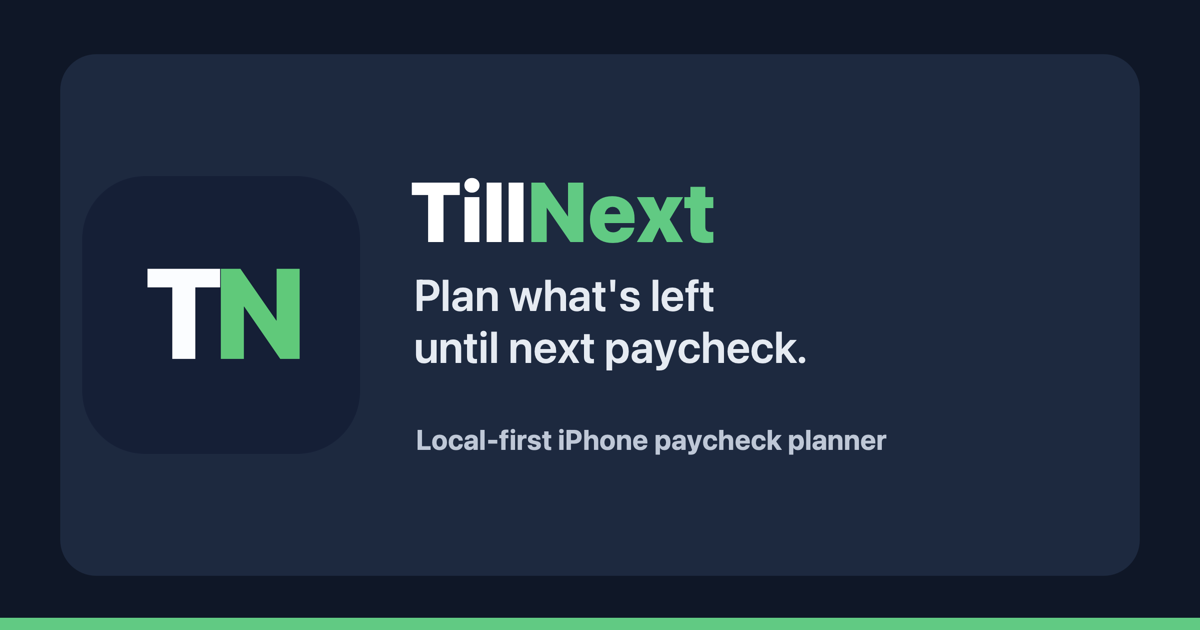
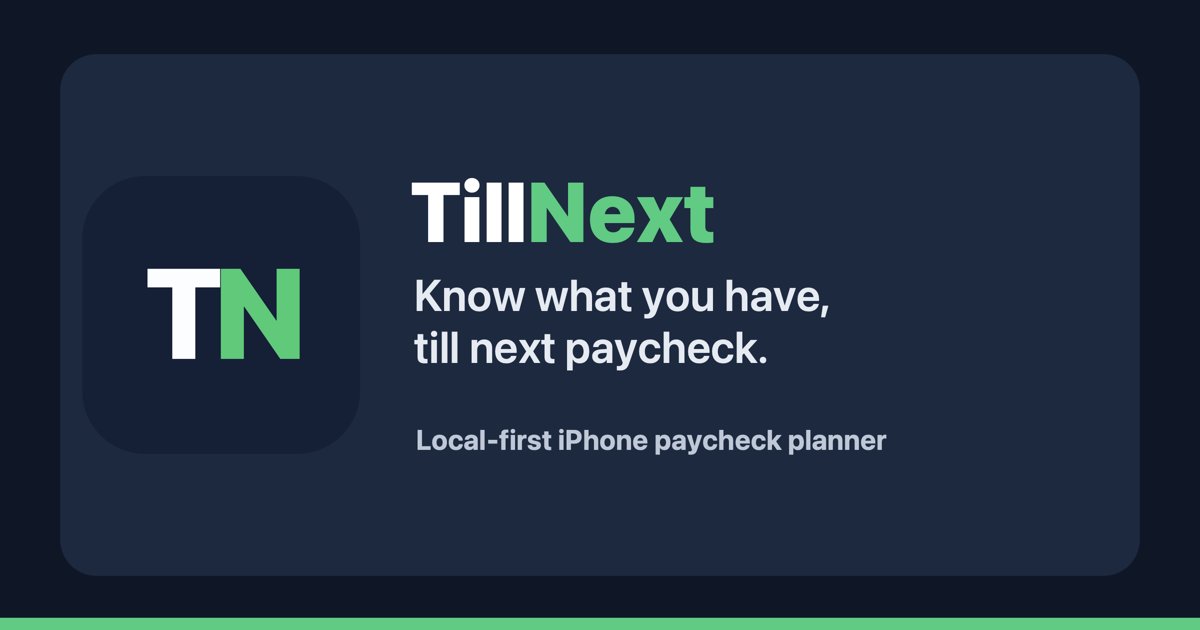
Use splash tagline on site

Changed region(s): [[0.3392, 0.4222, 0.7092, 0.6032]]

diff --git a/index.html b/index.html
@@ -4,10 +4,10 @@
     <meta charset="utf-8">
     <meta name="viewport" content="width=device-width, initial-scale=1">
     <title>TillNext: Paycheck Planner Support</title>
-    <meta name="description" content="Support, privacy, help, and release information for TillNext: Paycheck Planner, a local-first iPhone app for planning what's left until next paycheck.">
+    <meta name="description" content="Support, privacy, help, and release information for TillNext: Paycheck Planner, a local-first iPhone app that helps you know what you have, till next paycheck.">
     <link rel="canonical" href="https://tillnext.app/">
     <meta property="og:title" content="TillNext: Paycheck Planner">
-    <meta property="og:description" content="A local-first iPhone app for planning what's left until next paycheck. No account, no bank sync, no ads, no analytics.">
+    <meta property="og:description" content="A local-first iPhone app that helps you know what you have, till next paycheck. No account, no bank sync, no ads, no analytics.">
     <meta property="og:type" content="website">
     <meta property="og:url" content="https://tillnext.app/">
     <meta property="og:image" content="https://tillnext.app/assets/tillnext-share-card.png?v=20260429">
@@ -15,10 +15,10 @@
     <meta property="og:image:type" content="image/png">
     <meta property="og:image:width" content="1200">
     <meta property="og:image:height" content="630">
-    <meta property="og:image:alt" content="TillNext app icon with the tagline Plan what's left until next paycheck.">
+    <meta property="og:image:alt" content="TillNext app icon with the tagline Know what you have, till next paycheck.">
     <meta name="twitter:card" content="summary_large_image">
     <meta name="twitter:title" content="TillNext: Paycheck Planner">
-    <meta name="twitter:description" content="A local-first iPhone app for planning what's left until next paycheck.">
+    <meta name="twitter:description" content="A local-first iPhone app that helps you know what you have, till next paycheck.">
     <meta name="twitter:image" content="https://tillnext.app/assets/tillnext-share-card.png?v=20260429">
     <link rel="icon" type="image/png" href="assets/tillnext-app-icon.png">
     <link rel="apple-touch-icon" href="assets/tillnext-app-icon.png">
@@ -41,7 +41,7 @@
       <section class="hero" aria-labelledby="hero-title">
         <div class="hero-copy">
           <p class="eyebrow">TillNext: Paycheck Planner</p>
-          <h1 id="hero-title">Plan what's left until next paycheck.</h1>
+          <h1 id="hero-title">Know what you have, till next paycheck.</h1>
           <p class="hero-lede">
             TillNext is a local-first iPhone app for planning income, recurring bills,
             one-time expenses, savings, and the month ahead without connecting a bank account.
